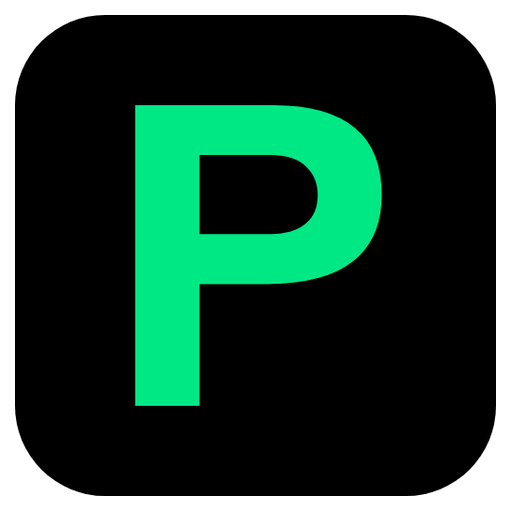
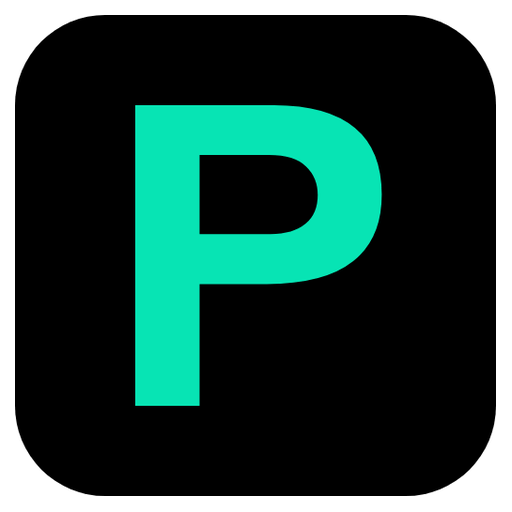
style(gui): project the teal brand and leaf success into the app
Regenerate brand.css from the canonical design system, re-project the
favicon, PWA icons and header mark from the re-rendered mark, refresh
their cache keys and the assets/ masters and hashes, restate the new
accent in the offline page, and call the completion check leaf.

Changed region(s): [[0.25, 0.1875, 0.75, 0.8125]]

diff --git a/apps/pancode-gui/client/design/brand.css b/apps/pancode-gui/client/design/brand.css
@@ -36,7 +36,7 @@
 }
 :root {
 	--pancode-black: #000000;
-	--pancode-green400: #00e884;
+	--pancode-green400: #07e4b4;
 	--pancode-pine1: #0f0e0c;
 	--font-ui: "Instrument Sans", system-ui, sans-serif;
 	--font-editorial: "Schibsted Grotesk", "Arial Narrow", Arial, sans-serif;
@@ -52,22 +52,22 @@
 	--code-ink-muted: #a6a297;
 	--code-line: #292926;
 	--code-gutter: #a6a297;
-	--code-signal: #00e884;
+	--code-signal: #07e4b4;
 	--code-error-tint: #2d0706;
 	--syntax-comment: #837f76;
 	--syntax-keyword: #7dbdfd;
 	--syntax-string: #f2b106;
 	--syntax-number: #c3affe;
-	--syntax-function: #57eb95;
-	--syntax-type: #34dbb9;
+	--syntax-function: #0becbb;
+	--syntax-type: #61e165;
 	--syntax-property: #d6d2c7;
 	--syntax-operator: #a6a297;
-	--syntax-prompt: #00e884;
-	--syntax-added: #34dbb9;
+	--syntax-prompt: #07e4b4;
+	--syntax-added: #61e165;
 	--syntax-removed: #ff6b60;
 	--syntax-punctuation: #a6a297;
 	--syntax-deleted: #ff6b60;
-	--syntax-inserted: #34dbb9;
+	--syntax-inserted: #61e165;
 	--paper: #f5f3ee;
 	--surface: #ffffff;
 	--surface-sunken: #ebe8e1;
@@ -81,17 +81,17 @@
 	--ink-faint: #77746b;
 	--line: #dcd8cf;
 	--line-strong: #77746b;
-	--accent: #137643;
-	--accent-strong: #0c562f;
-	--accent-soft: #e1f9e7;
+	--accent: #00755b;
+	--accent-strong: #015541;
+	--accent-soft: #dcfaee;
 	--on-accent: #ffffff;
-	--focus: #137643;
+	--focus: #00755b;
 	--focus-halo: #f5f3ee;
 	--primary-fill: #000000;
 	--primary-hover: #2d2c28;
-	--on-primary: #00e884;
+	--on-primary: #07e4b4;
 	--selection: #000000;
-	--on-selection: #00e884;
+	--on-selection: #07e4b4;
 	--secondary: #1472bd;
 	--reason-fg: #2d2c28;
 	--reason-tint: #ebe8e1;
@@ -108,21 +108,21 @@
 	--status-running-fg: #0d5d9d;
 	--status-running-tint: #eff6fd;
 	--status-running-line: #0d5d9d;
-	--status-success-fg: #026b58;
-	--status-success-tint: #dff8f1;
-	--status-success-line: #026b58;
+	--status-success-fg: #1c6a21;
+	--status-success-tint: #e4fbe3;
+	--status-success-line: #1c6a21;
 	--status-warn-fg: #765400;
 	--status-warn-tint: #fdf0d9;
 	--status-warn-line: #765400;
 	--status-fail-fg: #ac0512;
 	--status-fail-tint: #feeeeb;
 	--status-fail-line: #ac0512;
-	--viz-1: #137643;
+	--viz-1: #00755b;
 	--viz-2: #1472bd;
 	--viz-3: #765400;
 	--viz-4: #6343a6;
 	--viz-5: #ac0512;
-	--viz-6: #026b58;
+	--viz-6: #1c6a21;
 	--viz-7: #0f0e0c;
 	--viz-8: #53514b;
 	--shadow-raised: 0 1px 2px color-mix(in srgb, var(--pancode-pine1) 6%, transparent);
@@ -152,16 +152,16 @@
 	--ink-faint: #837f76;
 	--line: #292926;
 	--line-strong: #6a6862;
-	--accent: #00e884;
-	--accent-strong: #57eb95;
-	--accent-soft: #021a0b;
+	--accent: #07e4b4;
+	--accent-strong: #0becbb;
+	--accent-soft: #001a12;
 	--on-accent: #000000;
-	--focus: #00e884;
+	--focus: #07e4b4;
 	--focus-halo: #000000;
-	--primary-fill: #00e884;
-	--primary-hover: #57eb95;
+	--primary-fill: #07e4b4;
+	--primary-hover: #0becbb;
 	--on-primary: #000000;
-	--selection: #00e884;
+	--selection: #07e4b4;
 	--on-selection: #000000;
 	--secondary: #4aa8ff;
 	--reason-fg: #d6d2c7;
@@ -179,21 +179,21 @@
 	--status-running-fg: #7dbdfd;
 	--status-running-tint: #061320;
 	--status-running-line: #7dbdfd;
-	--status-success-fg: #34dbb9;
-	--status-success-tint: #001c15;
-	--status-success-line: #34dbb9;
+	--status-success-fg: #61e165;
+	--status-success-tint: #081b08;
+	--status-success-line: #61e165;
 	--status-warn-fg: #f2b106;
 	--status-warn-tint: #201300;
 	--status-warn-line: #f2b106;
 	--status-fail-fg: #ff6b60;
 	--status-fail-tint: #2d0706;
 	--status-fail-line: #ff6b60;
-	--viz-1: #00e884;
+	--viz-1: #07e4b4;
 	--viz-2: #4aa8ff;
 	--viz-3: #f2b106;
 	--viz-4: #c3affe;
 	--viz-5: #ff6b60;
-	--viz-6: #34dbb9;
+	--viz-6: #61e165;
 	--viz-7: #f1eee6;
 	--viz-8: #a6a297;
 	--shadow-raised: none;
@@ -216,16 +216,16 @@
 		--ink-faint: #837f76;
 		--line: #292926;
 		--line-strong: #6a6862;
-		--accent: #00e884;
-		--accent-strong: #57eb95;
-		--accent-soft: #021a0b;
+		--accent: #07e4b4;
+		--accent-strong: #0becbb;
+		--accent-soft: #001a12;
 		--on-accent: #000000;
-		--focus: #00e884;
+		--focus: #07e4b4;
 		--focus-halo: #000000;
-		--primary-fill: #00e884;
-		--primary-hover: #57eb95;
+		--primary-fill: #07e4b4;
+		--primary-hover: #0becbb;
 		--on-primary: #000000;
-		--selection: #00e884;
+		--selection: #07e4b4;
 		--on-selection: #000000;
 		--secondary: #4aa8ff;
 		--reason-fg: #d6d2c7;
@@ -243,21 +243,21 @@
 		--status-running-fg: #7dbdfd;
 		--status-running-tint: #061320;
 		--status-running-line: #7dbdfd;
-		--status-success-fg: #34dbb9;
-		--status-success-tint: #001c15;
-		--status-success-line: #34dbb9;
+		--status-success-fg: #61e165;
+		--status-success-tint: #081b08;
+		--status-success-line: #61e165;
 		--status-warn-fg: #f2b106;
 		--status-warn-tint: #201300;
 		--status-warn-line: #f2b106;
 		--status-fail-fg: #ff6b60;
 		--status-fail-tint: #2d0706;
 		--status-fail-line: #ff6b60;
-		--viz-1: #00e884;
+		--viz-1: #07e4b4;
 		--viz-2: #4aa8ff;
 		--viz-3: #f2b106;
 		--viz-4: #c3affe;
 		--viz-5: #ff6b60;
-		--viz-6: #34dbb9;
+		--viz-6: #61e165;
 		--viz-7: #f1eee6;
 		--viz-8: #a6a297;
 		--shadow-raised: none;

diff --git a/apps/pancode-gui/client/public/offline.css b/apps/pancode-gui/client/public/offline.css
@@ -7,10 +7,10 @@
 	--paper: #f5f3ee;
 	--ink: #0f0e0c;
 	--ink-muted: #53514b;
-	--accent: #137643;
+	--accent: #00755b;
 	--secondary: #1472bd;
 	--on-accent: #ffffff;
-	--focus: #137643;
+	--focus: #00755b;
 	color-scheme: light;
 }
 @media (prefers-color-scheme: dark) {
@@ -18,10 +18,10 @@
 		--paper: #000000;
 		--ink: #f1eee6;
 		--ink-muted: #a6a297;
-		--accent: #00e884;
+		--accent: #07e4b4;
 		--secondary: #4aa8ff;
 		--on-accent: #000000;
-		--focus: #00e884;
+		--focus: #07e4b4;
 		color-scheme: dark;
 	}
 }
@@ -29,10 +29,10 @@
 	--paper: #000000;
 	--ink: #f1eee6;
 	--ink-muted: #a6a297;
-	--accent: #00e884;
+	--accent: #07e4b4;
 	--secondary: #4aa8ff;
 	--on-accent: #000000;
-	--focus: #00e884;
+	--focus: #07e4b4;
 	color-scheme: dark;
 }
 

diff --git a/apps/pancode-gui/client/shell/PancodeMark.tsx b/apps/pancode-gui/client/shell/PancodeMark.tsx
@@ -62,7 +62,7 @@ function MarkArt({ className }: { className: string }) {
 /**
  * The "PanCode is working" indicator: a still blue live dot in the running status colour, always beside
  * the words that say what is running. It means PanCode, a worker, a tool or the setup child is doing
- * something right now, never ordinary data loading. `done` turns it into the jade check, shown only
+ * something right now, never ordinary data loading. `done` turns it into the leaf check, shown only
  * after a reported completion. It is decorative to assistive technology unless it gets a `label`.
  */
 export function PancodePulse({ size = 16, label, done = false }: { size?: number; label?: string; done?: boolean }) {

diff --git a/apps/pancode-gui/client/shell/mark.css b/apps/pancode-gui/client/shell/mark.css
@@ -1,7 +1,7 @@
 /* SPDX-License-Identifier: LicenseRef-PanCode-1.0 */
 /* SPDX-FileCopyrightText: 2026 Anthony Kougkas */
 /* The canonical PanCode mark and the activity indicator. Both are still: the logo is the mark at rest, busy is a
-   blue live dot beside the words that name the work, and a reported completion is a jade check. */
+   blue live dot beside the words that name the work, and a reported completion is a leaf check. */
 .pancode-mark,
 .pancode-logo__art {
 	display: block;

diff --git a/apps/pancode-gui/client/index.html b/apps/pancode-gui/client/index.html
@@ -9,7 +9,7 @@
 		<link rel="preload" href="/fonts/schibsted-grotesk.woff2" as="font" type="font/woff2" crossorigin />
 		<link rel="stylesheet" href="/design/tokens.css" />
 		<script src="/theme-init.js"></script>
-		<link rel="icon" href="/favicon.png?v=22f154abe875" type="image/png" />
+		<link rel="icon" href="/favicon.png?v=fd8820d27054" type="image/png" />
 		<title>PanCode</title>
 	</head>
 	<body>
